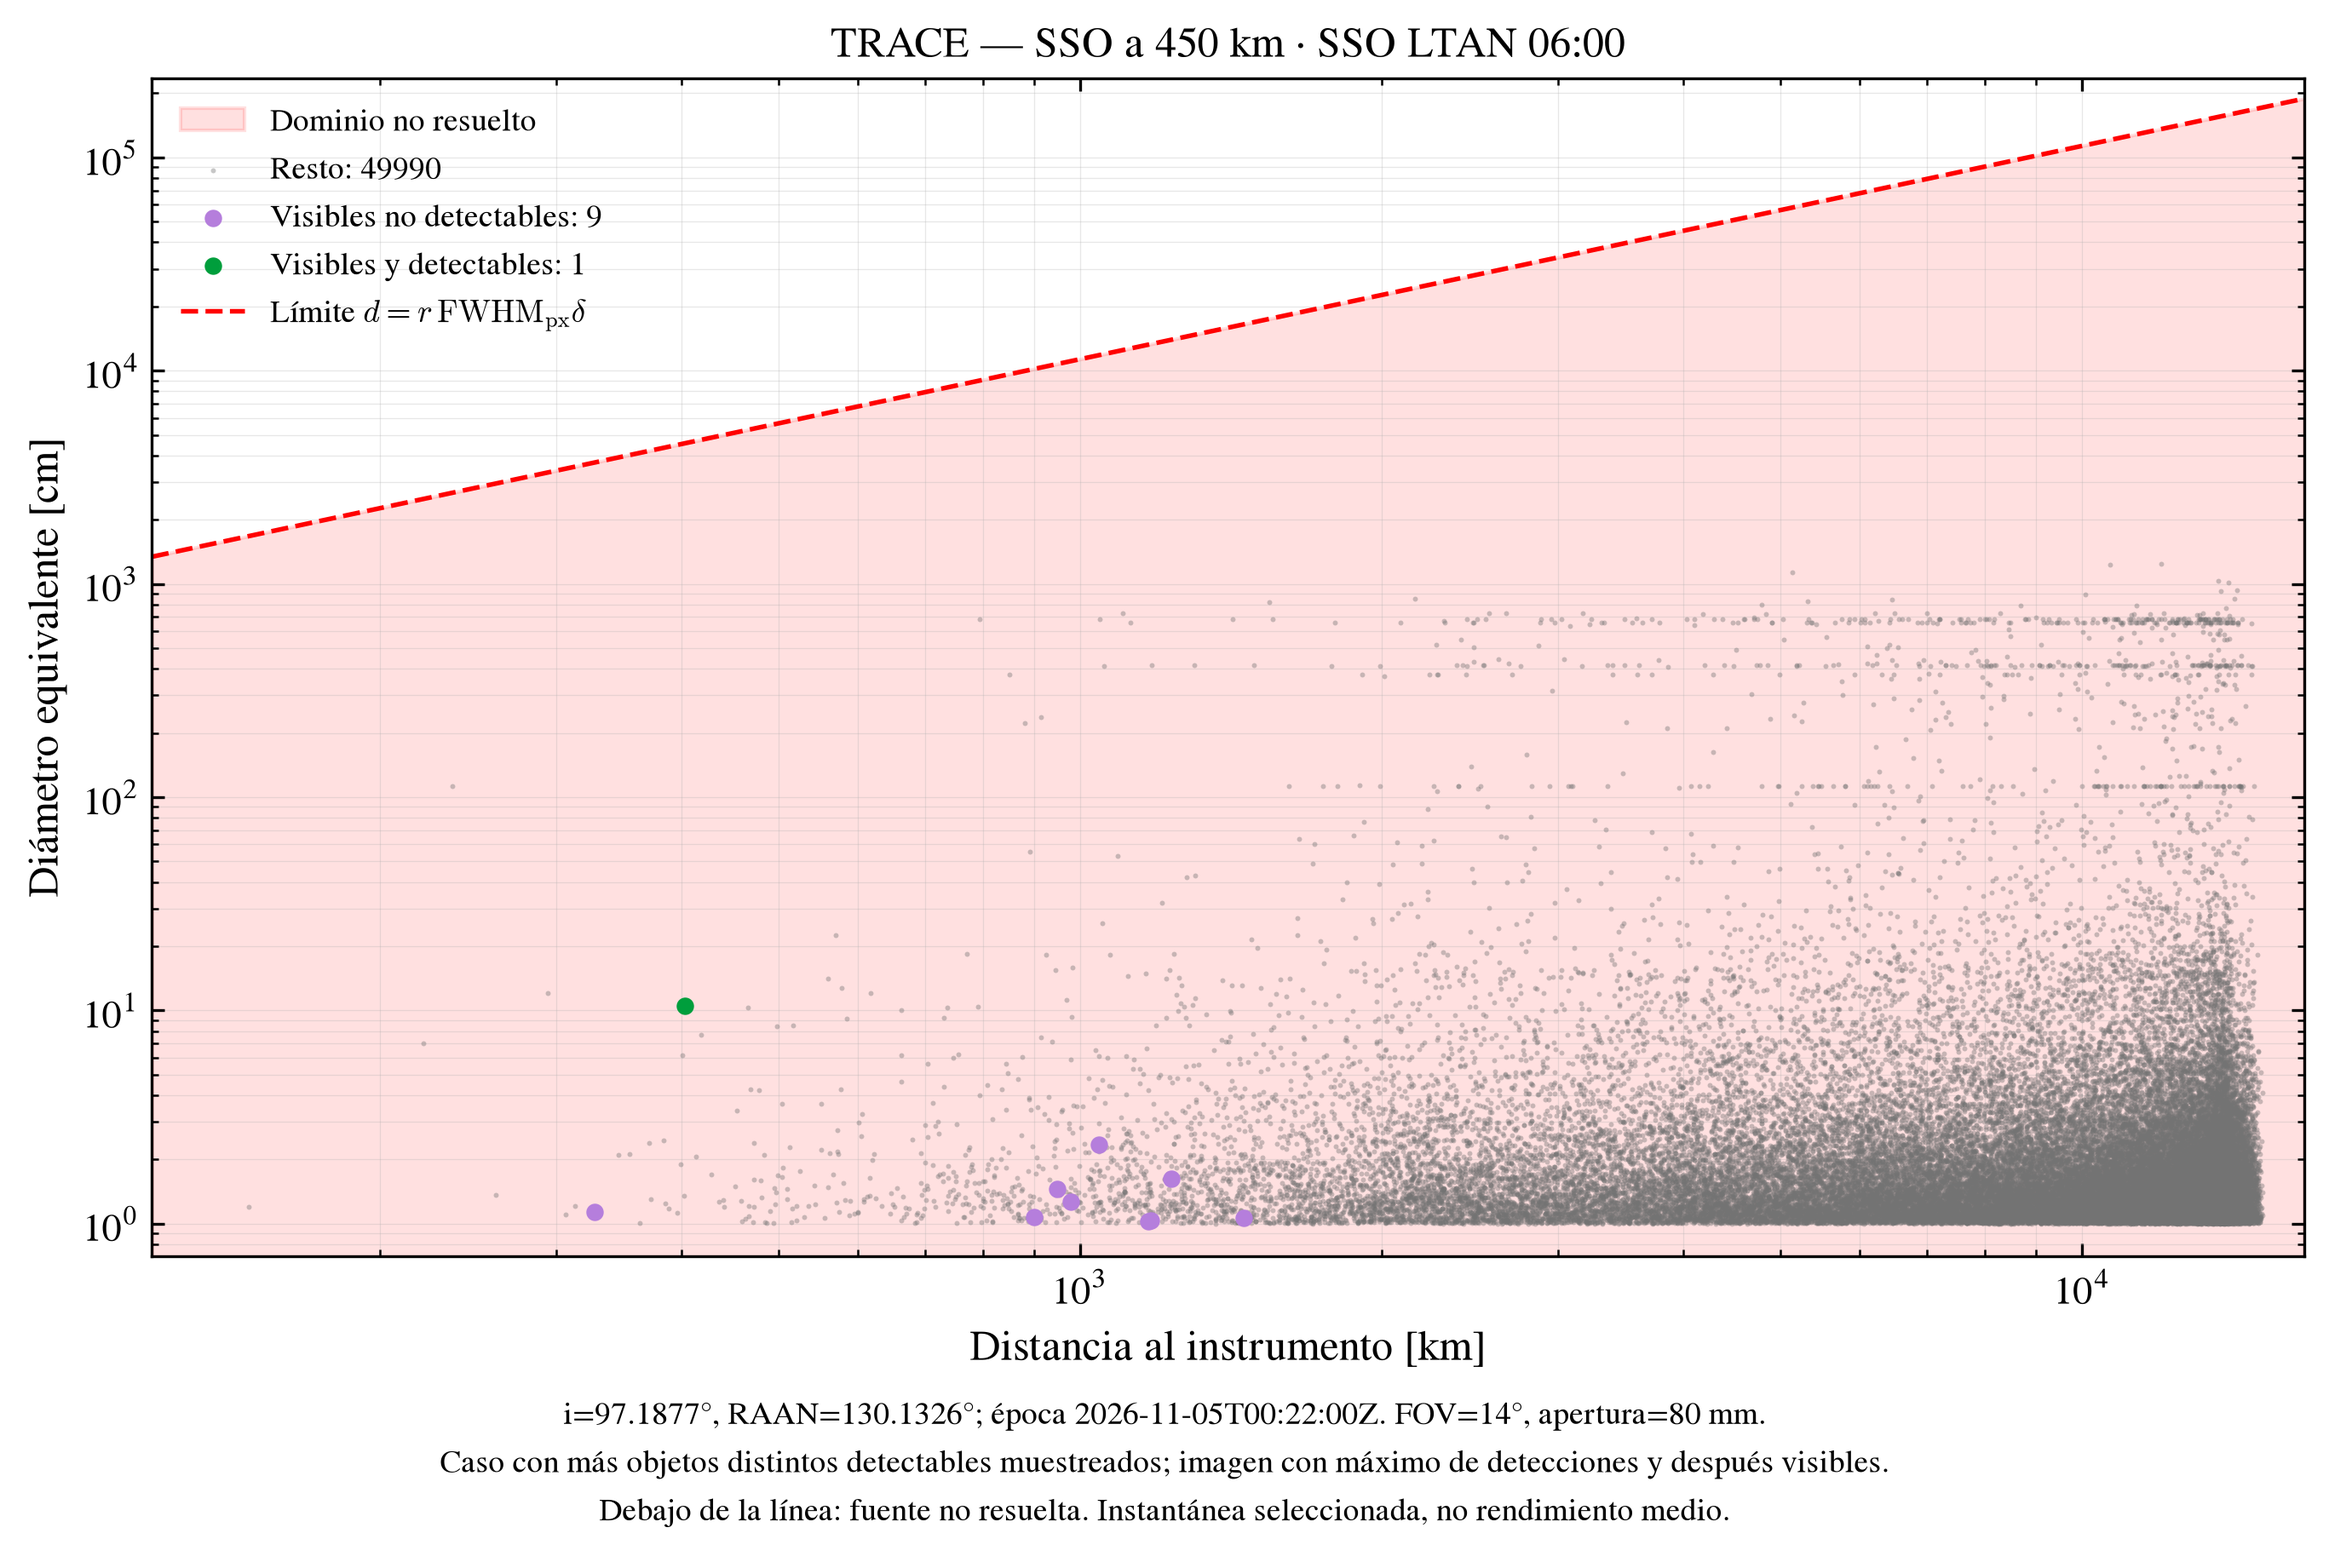
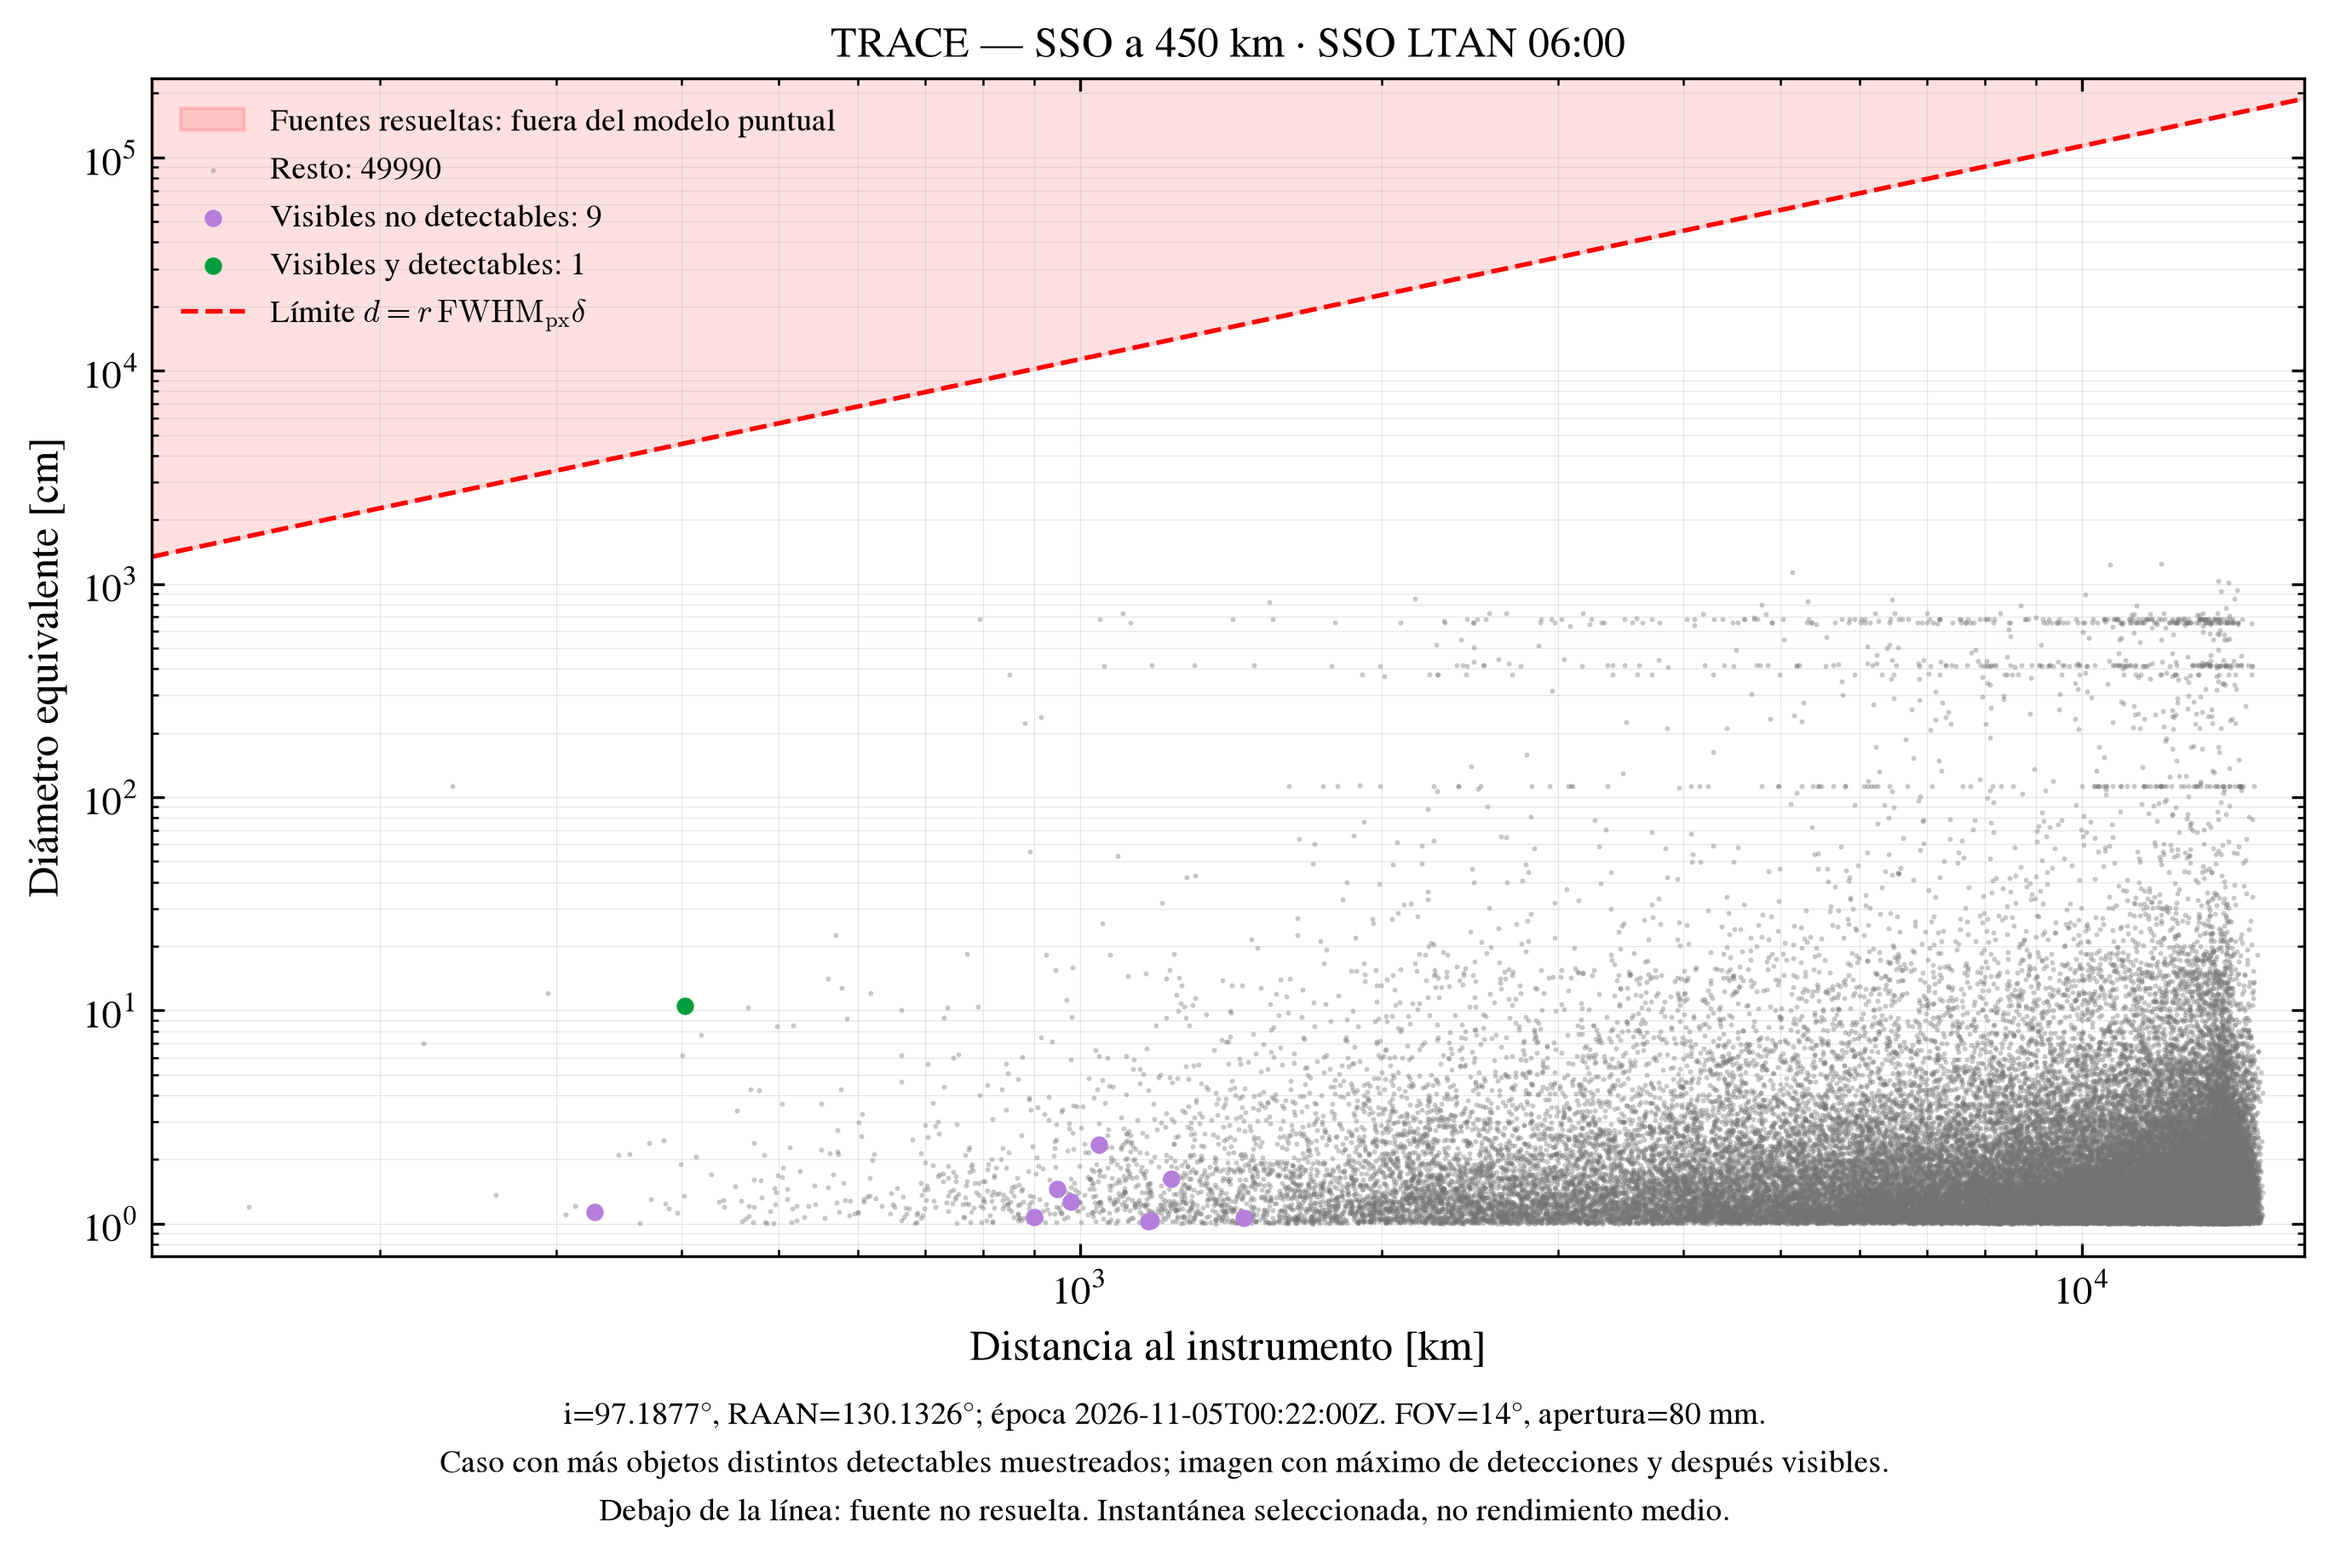
Shade resolved-source region above angular-size limit

diff --git a/scripts/compare_sso_observer.py b/scripts/compare_sso_observer.py
@@ -101,14 +101,15 @@ def main():
     ranges=result['range_km'];sizes=pop['diameter_m']*100;theta=b['PSF_FWHM']*model.derived(case)[1]
     fig,ax=plt.subplots(figsize=(9,6),layout='constrained')
     x=np.geomspace(ranges.min()*.8,ranges.max()*1.1,500);bottom=sizes.min()*.7;line=x*1e5*theta
-    ax.fill_between(x,bottom,np.maximum(bottom,line),color='red',alpha=.12,label='Dominio no resuelto')
+    top=max(line.max(),sizes.max())*1.25
+    ax.fill_between(x,line,top,color='red',alpha=.12,label='Fuentes resueltas: fuera del modelo puntual',zorder=0)
     masks=[~result['visible'],result['visible']&~result['detectable'],result['detectable']]
     for mask,color,label,sz in zip(masks,('#737373','#B57EDC','#009E3C'),
                                   ('Resto','Visibles no detectables','Visibles y detectables'),(2,24,24)):
         ax.scatter(ranges[mask],sizes[mask],s=sz,color=color,alpha=.4 if sz==2 else 1,
                    linewidths=0,label=f'{label}: {int(mask.sum())}',zorder=2 if sz==2 else 4)
     ax.plot(x,line,'r--',lw=1.3,label=r'Límite $d=r\,\mathrm{FWHM}_{\mathrm{px}}\delta$')
-    ax.set(xscale='log',yscale='log',xlim=(x[0],x[-1]),ylim=(bottom,max(line.max(),sizes.max())*1.25),
+    ax.set(xscale='log',yscale='log',xlim=(x[0],x[-1]),ylim=(bottom,top),
            xlabel='Distancia al instrumento [km]',ylabel='Diámetro equivalente [cm]',
            title=f'TRACE — SSO a 450 km · {best["label"]}')
     ax.legend(fontsize=9);ax.grid(which='both',lw=.3,alpha=.3)

diff --git a/scripts/plot_unresolved_population.py b/scripts/plot_unresolved_population.py
@@ -64,8 +64,9 @@ def main():
     x = np.geomspace(ranges.min()*.8, ranges.max()*1.1, 500)
     boundary = x*1e5*theta
     bottom = sizes.min()*.7
-    ax.fill_between(x, bottom, np.maximum(bottom,boundary), color='red', alpha=.12,
-                    label='Dominio de fuente no resuelta', zorder=0)
+    top = max(boundary.max(),sizes.max())*1.25
+    ax.fill_between(x, boundary, top, color='red', alpha=.12,
+                    label='Fuentes resueltas: fuera del modelo puntual', zorder=0)
     ax.scatter(ranges[grey],sizes[grey],s=2,color='#737373',alpha=.4,linewidths=0,
                label=f'Resto de objetos: {int(grey.sum()):,}'.replace(',','.'),zorder=2)
     ax.scatter(ranges[visible_only],sizes[visible_only],s=24,color='#B57EDC',alpha=1,linewidths=.3,
@@ -75,7 +76,7 @@ def main():
     ax.plot(x,boundary,'--',color='red',lw=1.4,
             label=r'Límite: $d=r\,\mathrm{FWHM}_{\mathrm{px}}\,\delta$',zorder=3)
     ax.set(xscale='log',yscale='log',xlim=(x[0],x[-1]),
-           ylim=(bottom,max(boundary.max(),sizes.max())*1.25),
+           ylim=(bottom,top),
            xlabel='Distancia al instrumento [km]',ylabel='Diámetro equivalente del objeto [cm]',
            title='TRACE — límite de fuente no resuelta · población nominal')
     ax.grid(which='major',lw=.5,alpha=.4);ax.grid(which='minor',lw=.3,alpha=.25)

diff --git a/Notas del Proyecto.md b/Notas del Proyecto.md
@@ -1298,3 +1298,14 @@ La imagen SSO seleccionada corresponde a 2026-11-05T00:22:00Z (LTAN 06:00):
 10 visibles, de ellos 1 verde y 9 lilas; 49990 grises. El mayor SNR visible
 en ese instante es 9.50919. Se ha verificado que los 50000 registros se
 conservan y los conteos de la imagen coinciden con su tabla de objetos.
+
+
+## Corrección visual: sombreado del dominio de fuentes resueltas
+
+Por petición del usuario se mueve el sombreado rojo transparente **por encima**
+del límite d/r=FWHM_px*delta en las figuras ecuatorial y SSO. Esta región
+corresponde a fuentes resueltas y queda fuera de la hipótesis de objeto
+puntual del modelo. La región inferior, no resuelta, queda sin sombrear.
+Se actualizan las leyendas para identificar el dominio excluido. Este cambio
+es visual: no modifica el criterio de tamaño angular, los parámetros,
+los cálculos ni la clasificación gris/lila/verde de los objetos.

diff --git a/README.md b/README.md
@@ -245,7 +245,9 @@ visualización, no un conteo acumulado ni una tasa media de misión.
 Las posiciones propagadas se expresan en los ejes TEME fijos de la época
 nominal; se omiten J2, arrastre y precesión durante este barrido corto.
 El umbral nominal es FWHM×δ = 0,000113165494 rad = 23,3421 arcsec.
-La línea roja es d[cm]=11,3165494 r[km]; la zona inferior sombreada es no resuelta.
+La línea roja es d[cm]=11,3165494 r[km]. La zona superior se sombrea en rojo:
+fuentes resueltas, fuera del modelo puntual. La inferior queda sin sombrear:
+fuentes no resueltas, compatibles con la hipótesis del modelo.
 
 ## Alcance de los modelos iniciales anteriores
 
